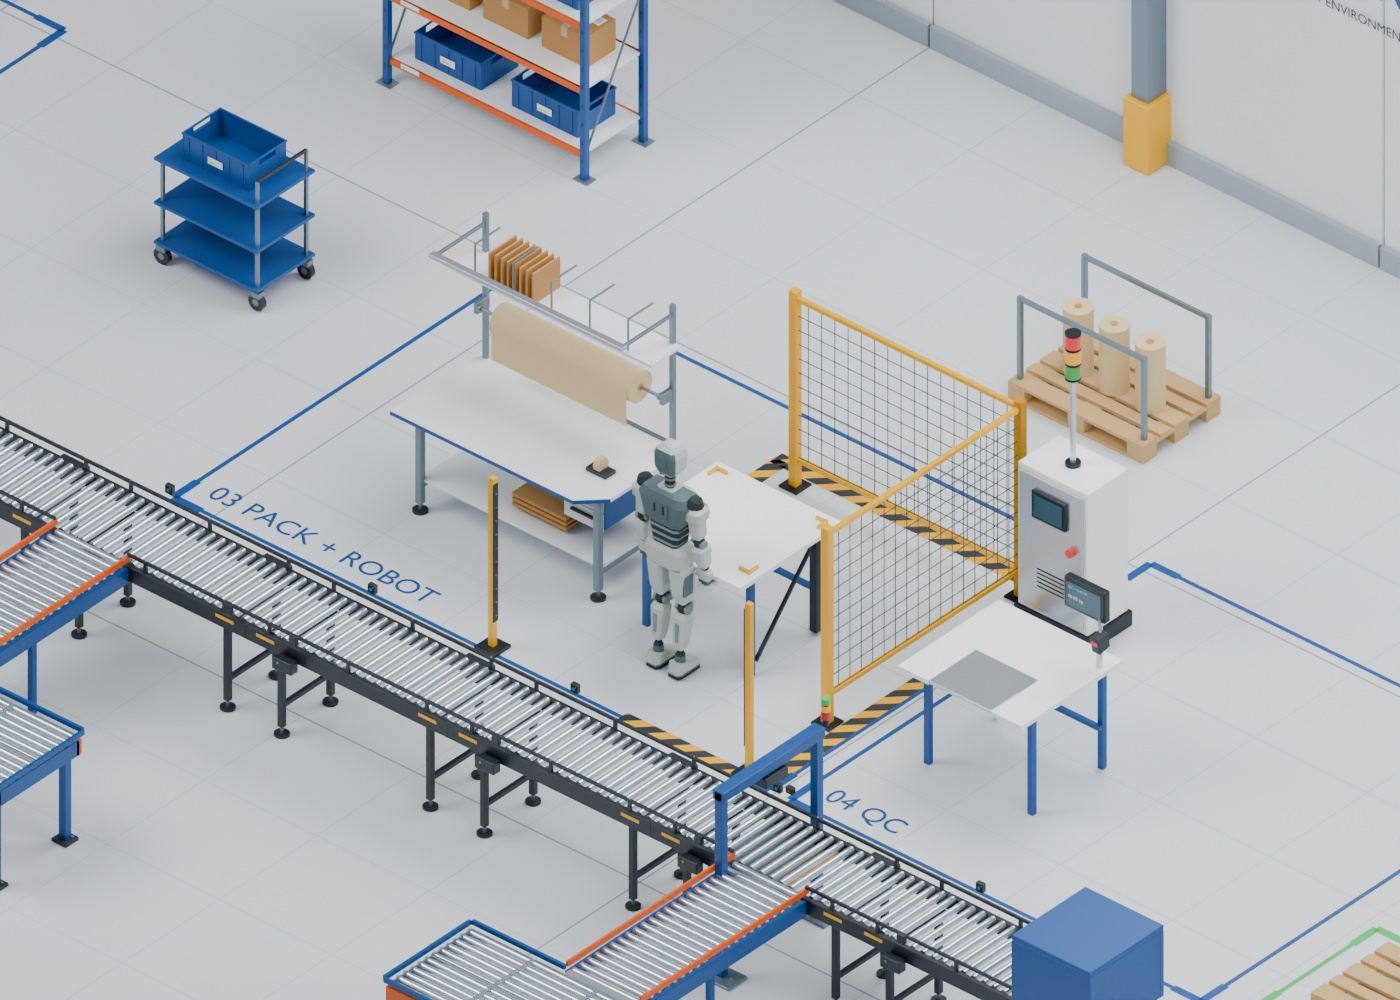
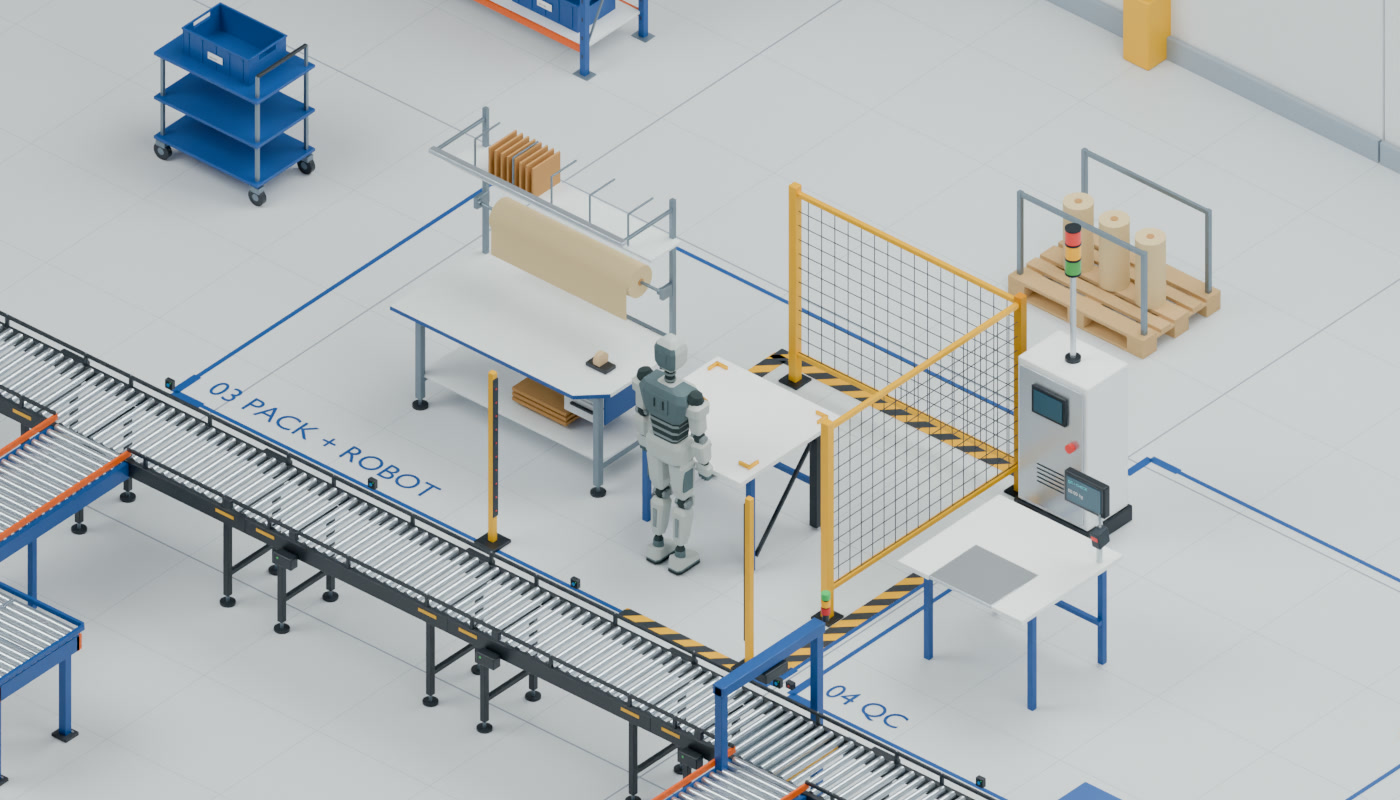
I matched both README warehouse images to the same 1400x800 aspect ratio

diff --git a/README.md b/README.md
@@ -4,7 +4,7 @@ Most real-world warehouse robot rollouts lose money in their first quarter -- no
 
 **Fulfillment-Cell-Bench** turns that 12-week warehouse rollout into a black-box reinforcement learning environment built for **Junction 2026 (AfterQuery)**. AI agents cannot read the simulator code or see the test seeds: they get **24 practice test runs ("pilots")** to experiment, then submit one 12-week plan that is graded on unseen quarters.
 
-| Full 4-Zone Warehouse Cell (`Prep -> Pick -> Pack -> QC`) | Zone 3 Packing Robot, Safety Cage & Quality Control |
+| Full 4-Zone Cell (`Prep -> Pick -> Pack -> QC`) | Zone 3 Packing Robot, Safety Cage & QC |
 | :---: | :---: |
 | ![3D Warehouse Overview](docs/assets/warehouse_overview.jpg) | ![Zone 3 Robotic Pack and QC](docs/assets/zone3_robot_pack.jpg) |
 
